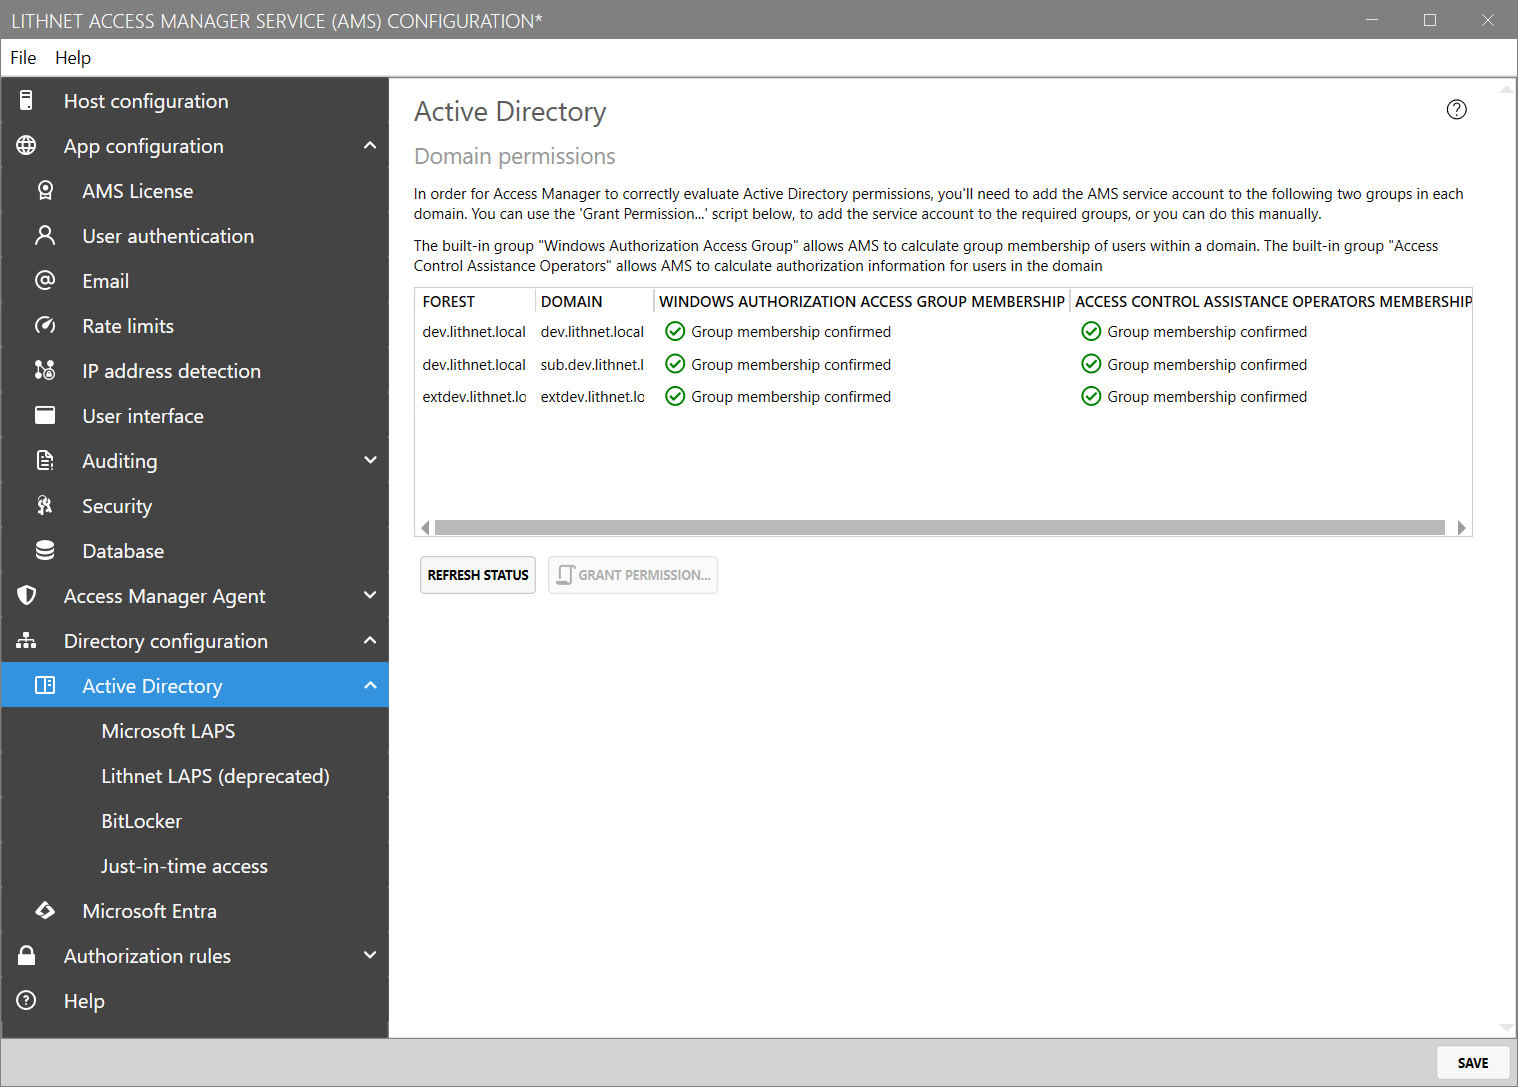
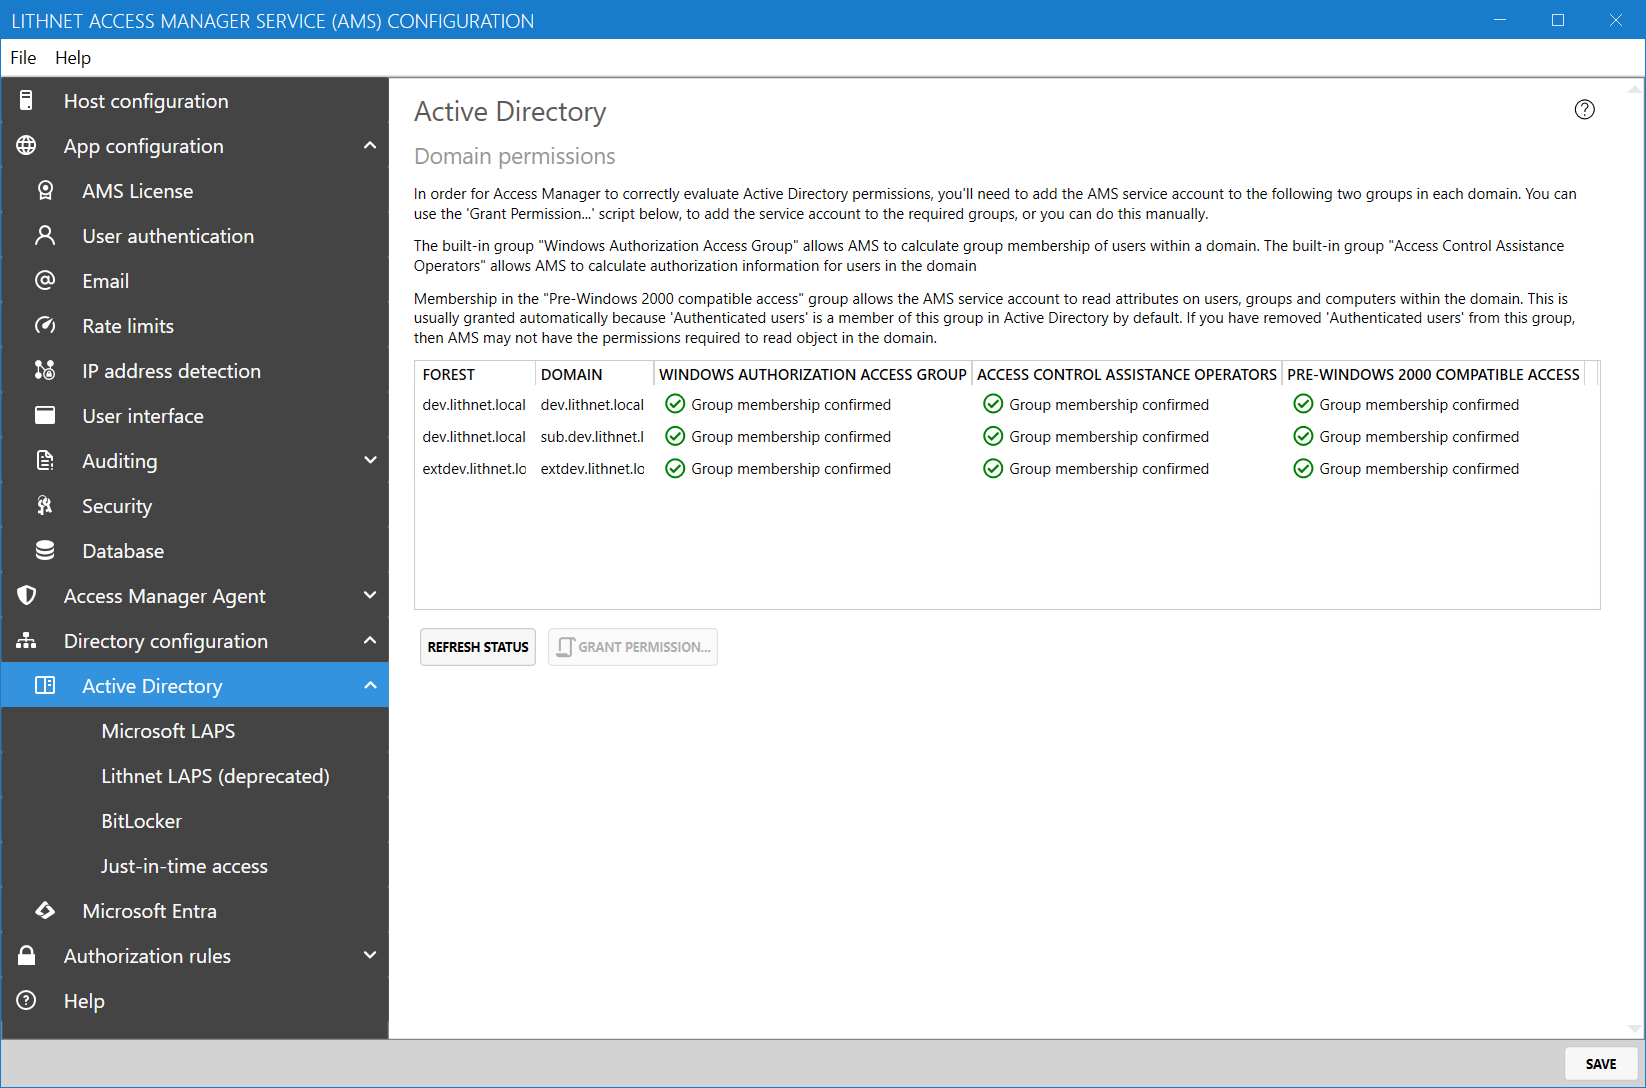
Updates active directory page to explain new pre-w2k group requirement

diff --git a/help-and-support/app-pages/active-directory-page.md b/help-and-support/app-pages/active-directory-page.md
@@ -4,8 +4,10 @@
 
 ## Domain Permissions
 
-In order for the Access Manager service to evaluate user permissions, its service account needs to be a member of two built-in groups of each domain. The first is the `Windows Authorization Access Group`. This allows the service account to compute the `tokenAndUniversalGroups` for a user in the directory. This ensures that the service account can see the user's full group membership.
+In order for the Access Manager service to evaluate user permissions, its service account needs to be a member of three built-in groups of each domain. The first is the `Windows Authorization Access Group`. This allows the service account to compute the `tokenAndUniversalGroups` for a user in the directory. This ensures that the service account can see the user's full group membership.
 
 The second group is the `Access Control Assistance Operators` group. This allows Access Manager to ask a domain controller in a trusting forest to perform access checks on its behalf. Membership in this group is not technically required in the domain and forest that the Access Manager Service runs in.
+
+The final group is the `Pre-Windows 2000 compatible access` group. This group allows Access Manager to read objects within the domain. Usually, permission is granted automatically by the fact that this group, by default, contains the special `Authenticated users` principal. If you have removed `Authenticated users` from this group for security or privacy reasons, you'll need to make sure that the AMS service account can read objects in the domain. The easiest way to achieve this is to add the service account to the `Pre-Windows 2000 compatible access` group. Alternatively, you can manually grant permissions for the service account to read all properties of groups, users and computers in the domain (Note that the user interface will still show a group membership warning in this case).
 
 These groups provide read only access to authorization information within the domain.
